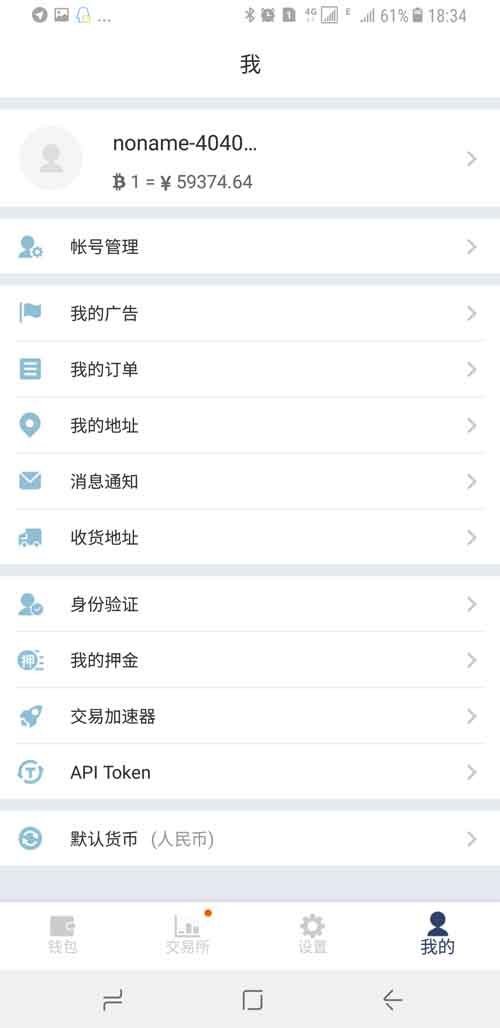
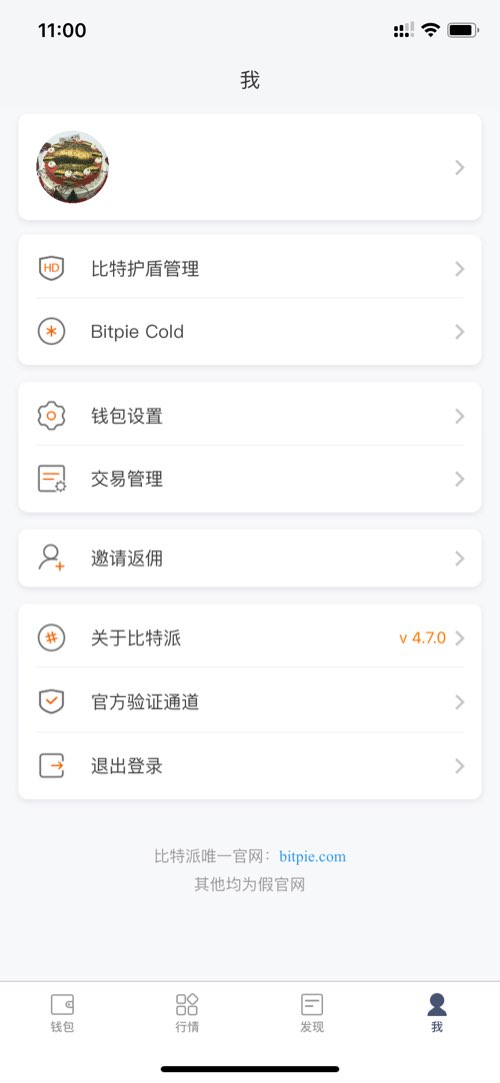
modify function

diff --git a/conf.py b/conf.py
@@ -64,6 +64,7 @@ release = u'3.8.3'
 # This is also used if you do content translation via gettext catalogs.
 # Usually you set "language" from the command line for these cases.
 language = 'zh_CN'
+# language = 'en'
 locale_dirs = ['locale/']   # path is example but recommended.
 gettext_compact = False
 

diff --git a/Function/index.rst b/Function/index.rst
@@ -1,40 +1,32 @@
 软件功能简述
 ============
 
-
-
-比特派是一款综合化的区块链资产服务产品，主要功能包括：收发、买卖、加速交易、交易所、资讯、DApp 、资产估值等。
-
+比特派是全球领先的多链钱包，支持 BTC/ETH/EOS/USDT 等多种区块链资产。主要功能包括：收发、买卖、借贷、加速交易、资讯、DApp 等。
 
 首页
 ------
 
 在主界面（首页）中有如下功能
 
-发币、收币
+转账、收款
 
 一键买卖：快捷方便
 
-扫一扫：登录 https://pieotc.com/ 场外交易使用，支持 SimpleWallet 协议。
+币币兑换：可以进行币种之间的兑换，例如使用 BTC 兑换成 USDT
 
-查看最新记录：显示各个币种的收发币记录。
+借贷：可以快速借入或者贷出资产，享受高额借贷收益
 
-派银行：配合点对点交易和交易所使用，还支持派理财，查看银行流水。
+派银行：配合点对点交易和理财使用，查看银行流水
 
 点对点交易：个人对个人的交易，安全，快捷
 
-币币兑换：可以进行币种之间的兑换，例如使用 BTC 兑换成 EOS。
+派商店：可以直接到淘宝或者微店购买硬件钱包
 
-查看最近交易记录：最近您的所有收发币记录和买卖记录均可进入查看。
+加速器：比特币交易未确认时，可以通过该功能让交易快速确认，可对指定的交易哈希进行加速。
 
-首页下方会显示多个币种，您可快速查看余额和切换。
+左上角：可以切换比特派钱包的币种体系
 
-左上角：切换比特派和比特护盾两个账户。
-
-右上角：添加币种。
-
-全部：对应的功能有派银行、派商店、点对点交易、币币兑换、交易记录、加速器、银行卡、身份验证、常用合约、Token工厂、EOS 投票、导入私钥、资源管理、创建 EOS 账户
-
+更多：对应的功能有派银行、派商店、点对点交易、币币兑换、借贷、交易记录、加速器、消息签名等功能。钱包当前所选币种不同，更多中功能也不尽相同。
 
 .. image:: ../img/bitpiewallet.jpg
     :width: 320px
@@ -45,13 +37,12 @@
 
 
 
-交易所
+行情
 --------------
 
-目前支持基于 SCNY、BTC、ETH 的多种交易对。
-可以查看行情，选择交易对进入后可进行交易。
+可一览当前主流币种的行情，关注当前币价，投资更便捷。点击左上角兑换，可以进行快速币币兑换，避免错过行情。
 
-.. image:: ../img/bitpieexpie.jpg
+.. image:: ../img/bitpiemarkets.jpg
     :width: 320px
     :height: 658px
     :scale: 100%
@@ -65,7 +56,7 @@ DApp
 带您发现更多优质 DApp、DApp工具，可随时查看比特派的热门及最新信息。
 
 
-.. image:: ../img/bitpiefound.jpg
+.. image:: ../img/bitpiediscover.jpg
     :width: 320px
     :height: 658px
     :scale: 100%
@@ -74,13 +65,13 @@ DApp
 
 
 
-资产
+资讯
 --------------
 
-对您在比特派上所有的资产进行估值，还可以查看历史记录(充值、提现、一键买卖)。
+了解比特派钱包最新资讯
 
 
-.. image:: ../img/totalassets.jpg
+.. image:: ../img/bitpienews.jpg
     :width: 320px
     :height: 658px
     :scale: 100%
@@ -92,65 +83,40 @@ DApp
 我的
 --------
 
-个人头像、用户名、当前币种价格，广告状态
+比特护盾管理：用于管理比特护盾硬件钱包。https://bithd.com
 
-账号管理：切换比特派和比特护盾两个账户。
+Bitpie Cold: 需要和比太冷钱包配合使用，相当于比太的冷钱包的监控钱包。目前支持BTC和USDT-omni两个币种
 
-我的广告： 创建点对点的广告。
+钱包设置：修改密码、显示助记词、验证助记词、转入资产、默认货币、地址格式选项
 
-我的订单：历史交易订单。
+交易管理：身份验证（KYC）、收款信息、我的订单、我的 OTC 押金、我的 OTC 广告
 
-我的地址：历史收款地址和找零地址。
+关于比特派：可以通过“帮助与反馈”反馈相关问题。如果您有问题，随时可以使用用户反馈提交工单提问。
 
-消息通知：交易通知，点对点订单通知，聊天通知，订单通知。
+官方验证通道：可以验证官方工作人员信息，防止不法分子借用比特派名义进行诈骗。
 
-收货地址：可新建购买比特护盾的收货地址。
+BITHD防伪码：比特护盾用户使用此项功能扫描用户手册上的防伪码，鉴定护盾真伪。
 
-身份验证：KYC A/B/C 验证。
+退出登录：退出当前账户后，可以注册新账户。
 
-我的押金：场外交易押金管理
-
-交易加速器：可对指定的交易 Hash 进行加速。
-
-默认货币：货币切换。
-
-
-.. image:: ../img/bitpieme.png
+.. image:: ../img/bitpieme.jpg
     :width: 320px
     :height: 658px
     :scale: 100%
     :align: center
 
+钱包设置相关功能说明：
 
+修改密码：修改您设置的数字PIN码
 
-右上角设置按钮包含以下功能：
+显示助记词：输入正确的PIN码可以再次查看助记词，核对助记词的额正确性。
 
-修改密码：修改您设置的数字密码
+验证助记词：用户一定要在验证助记词里验证您当前账户的助记词备份是否正确。只有备份助记词正确才可继续使用账户。
 
-验证种子：用户一定要在验证种子里验证您当前账户的密语备份是否正确。只有备份密语正确才可继续使用账户。
-
-切换到隔离验证地址：可切换 BTC 以3开头的隔离验证地址，或者是 切换 普通地址。
-
-检测余额：如果您在比特派的 ETH 或 ETH 下的 erc20 币种余额不对，可使用此功能。
-
-消息签名、地址簿 ：有专门版块介绍。
-
-BITHD防伪码：比特护盾用户使用此项功能扫描护盾包装盒上刮开的二维码，鉴定护盾真伪。
-
-用户反馈：如果您有问题，随时可以使用用户反馈提交工单提问。
-
+转入资产：您可以将其他钱包的资产通过链上发送的方式，发送至比特派钱包。还可以通过该功能找回误发送的资产。
 
 .. image:: ../img/bitpiesetting.jpg
     :width: 320px
     :height: 658px
     :scale: 100%
     :align: center
-
-
-
-
-
-
-
-
-
